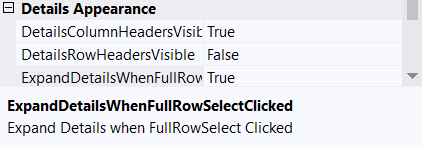
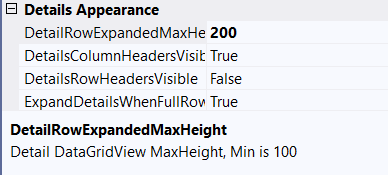
- Add `DetailRowExpandedMaxHeight` Designer variable and wire-up usage - Update Doc and picture - Update Exmple App #120

Changed region(s): [[0.0, 0.0, 0.7732, 1.0], [0.9588, 0.0, 1.0, 0.1361], [0.9588, 0.4898, 0.9897, 0.5442]]

diff --git a/Source/Krypton Toolkit/Main/Krypton.Toolkit.Suite.Extended.DataGridViewExt/Implementation/MasterDetailGridViewBase.cs b/Source/Krypton Toolkit/Main/Krypton.Toolkit.Suite.Extended.DataGridViewExt/Implementation/MasterDetailGridViewBase.cs
@@ -41,8 +41,6 @@ namespace Krypton.Toolkit.Suite.Extended.DataGridViewExt.Implementation
             RowPostPaint += MasterDetailGridView_RowPostPaint;
             Scroll += MasterDetailGridView_Scroll;
             SelectionChanged += MasterDetailGridView_SelectionChanged;
-            DetailsColumnHeadersVisible = true;
-            ExpandDetailsWhenFullRowSelectClicked = true;
             CellClick += MasterDetailGridViewBase_CellClick;
         }
 
@@ -157,11 +155,6 @@ namespace Krypton.Toolkit.Suite.Extended.DataGridViewExt.Implementation
 
         [Browsable(false)]
         [DesignerSerializationVisibility(DesignerSerializationVisibility.Hidden)]
-        protected readonly Dictionary<int, (int Height, int divider)> RowCurrent = new();
-        private readonly int rowExpandedHeight = 300;
-
-        [Browsable(false)]
-        [DesignerSerializationVisibility(DesignerSerializationVisibility.Hidden)]
         protected bool CollapseRow;
 
         private void MasterDetailGridViewBase_CellClick(object sender, DataGridViewCellEventArgs e)
@@ -202,8 +195,8 @@ namespace Krypton.Toolkit.Suite.Extended.DataGridViewExt.Implementation
                 RowCurrent[rowIndex] = (Rows[rowIndex].Height, Rows[rowIndex].DividerHeight);
                 if (ShouldDisplayChildDetails(rowIndex))
                 {
-                    Rows[rowIndex].Height = rowExpandedHeight;
-                    Rows[rowIndex].DividerHeight = rowExpandedHeight - Rows[rowIndex].DividerHeight;
+                    Rows[rowIndex].Height = DetailRowExpandedMaxHeight;
+                    Rows[rowIndex].DividerHeight = DetailRowExpandedMaxHeight - Rows[rowIndex].DividerHeight;
                 }
                 else
                 {
@@ -247,6 +240,12 @@ namespace Krypton.Toolkit.Suite.Extended.DataGridViewExt.Implementation
         private protected abstract void MasterDetailGridView_RowPostPaint(object sender, DataGridViewRowPostPaintEventArgs e);
 
         private protected abstract void MasterDetailGridView_SelectionChanged(object sender, EventArgs e);
+
+        [Browsable(false)]
+        [DesignerSerializationVisibility(DesignerSerializationVisibility.Hidden)]
+        protected readonly Dictionary<int, (int Height, int divider)> RowCurrent = new();
+
+        private int rowExpandedHeight = 300;
 
         private void MasterDetailGridView_Scroll(object sender, ScrollEventArgs e)
         {
@@ -317,13 +316,14 @@ namespace Krypton.Toolkit.Suite.Extended.DataGridViewExt.Implementation
             newGrid.RowHeadersVisible = DetailsRowHeadersVisible;
         }
 
+        #region Details Appearance Designer variables
         /// <summary>
         /// Detail DataGridView ColumnHeaders Visibility
         /// </summary>
         [Category("Details Appearance")]
         [DefaultValue(true)]
         [Description("Detail DataGridView ColumnHeaders Visibility")]
-        public bool DetailsColumnHeadersVisible { get; set; }
+        public bool DetailsColumnHeadersVisible { get; set; } = true;
 
         /// <summary>
         /// Detail DataGridView ColumnHeaders Visibility
@@ -331,8 +331,7 @@ namespace Krypton.Toolkit.Suite.Extended.DataGridViewExt.Implementation
         [Category("Details Appearance")]
         [DefaultValue(true)]
         [Description("Expand Details when FullRowSelect Clicked")]
-        public bool ExpandDetailsWhenFullRowSelectClicked { get; set; }
-
+        public bool ExpandDetailsWhenFullRowSelectClicked { get; set; } = true;
 
         /// <summary>
         /// Detail DataGridView RowHeaders Visibility
@@ -342,6 +341,26 @@ namespace Krypton.Toolkit.Suite.Extended.DataGridViewExt.Implementation
         [Description("Detail DataGridView RowHeaders Visibility")]
         public bool DetailsRowHeadersVisible { get; set; }
 
+        /// <summary>
+        /// Detail DataGridView RowHeaders Visibility
+        /// </summary>
+        [Category("Details Appearance")]
+        [DefaultValue(300)]
+        [Description("Detail DataGridView MaxHeight, Min is 100")]
+        public int DetailRowExpandedMaxHeight
+        {
+            get => rowExpandedHeight;
+            set
+            {
+                if (value < 100) 
+                    throw new ArgumentOutOfRangeException(nameof(DetailRowExpandedMaxHeight));
+                rowExpandedHeight = value;
+            }
+        }
+
+        #endregion Details Appearance Designer variables
+
+        #region Existing DataGridView Designer Modifiers
         /// <summary>
         /// Override the Master RowHeaders to be always visible
         /// </summary>
@@ -365,11 +384,12 @@ namespace Krypton.Toolkit.Suite.Extended.DataGridViewExt.Implementation
             get => base.RowHeadersWidth;
             set
             {
-                if (value < 18)
+                if (value < 32) // Leave room for the Default Selected icon and then drawing the Expand / collapse icon
                     throw new ArgumentOutOfRangeException(nameof(RowHeadersWidth));
                 base.RowHeadersWidth = value;
             }
         }
+        #endregion Existing DataGridView Designer Modifiers
 
     }
 

diff --git a/Source/Krypton Toolkit/Examples/DataGridView/ListExample.Designer.cs b/Source/Krypton Toolkit/Examples/DataGridView/ListExample.Designer.cs
@@ -278,6 +278,7 @@ namespace DataGridViewExt
             this.masterSingleDetailView1.KryptonContextMenu = this.kryptonContextMenu1;
             this.masterSingleDetailView1.Location = new System.Drawing.Point(12, 20);
             this.masterSingleDetailView1.Name = "masterSingleDetailView1";
+            this.masterSingleDetailView1.DetailRowExpandedMaxHeight = 200;
             this.masterSingleDetailView1.RowHeadersWidth = 51;
             this.masterSingleDetailView1.SelectionMode = System.Windows.Forms.DataGridViewSelectionMode.FullRowSelect;
             this.masterSingleDetailView1.Size = new System.Drawing.Size(1058, 272);

diff --git a/Source/Krypton Toolkit/Main/Krypton.Toolkit.Suite.Extended.DataGridViewExt/Readme.md b/Source/Krypton Toolkit/Main/Krypton.Toolkit.Suite.Extended.DataGridViewExt/Readme.md
@@ -35,6 +35,7 @@
 - Demonstrates the use of FullRowSelect, and clicking on any cell, expands / collapses the details
 - Demonstrates the usage of an ExtColumn type (Rating)
 - Shows how to hide columns 
+- Demonstrates the Detail DataGridView MaxHeight; (Min is 100)
 - How to implement the re-sortable single list
   - Mandy has 1 Item
   - Mark has 4
